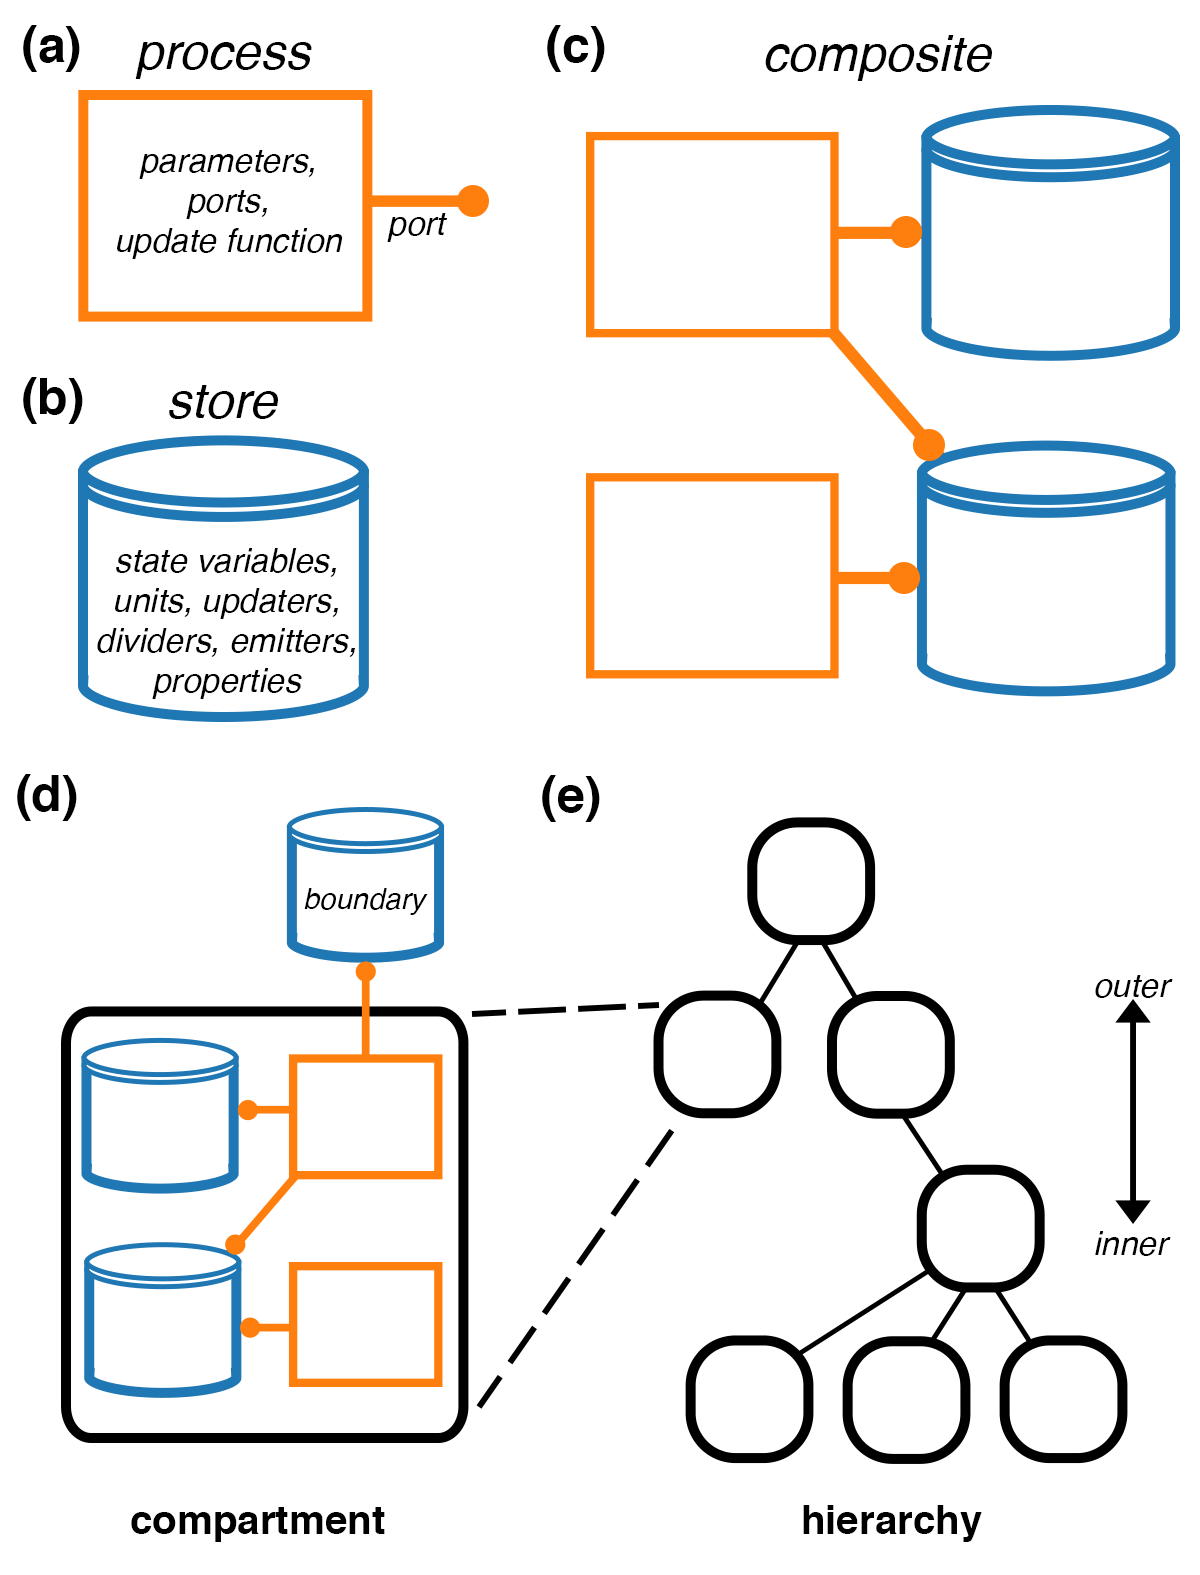
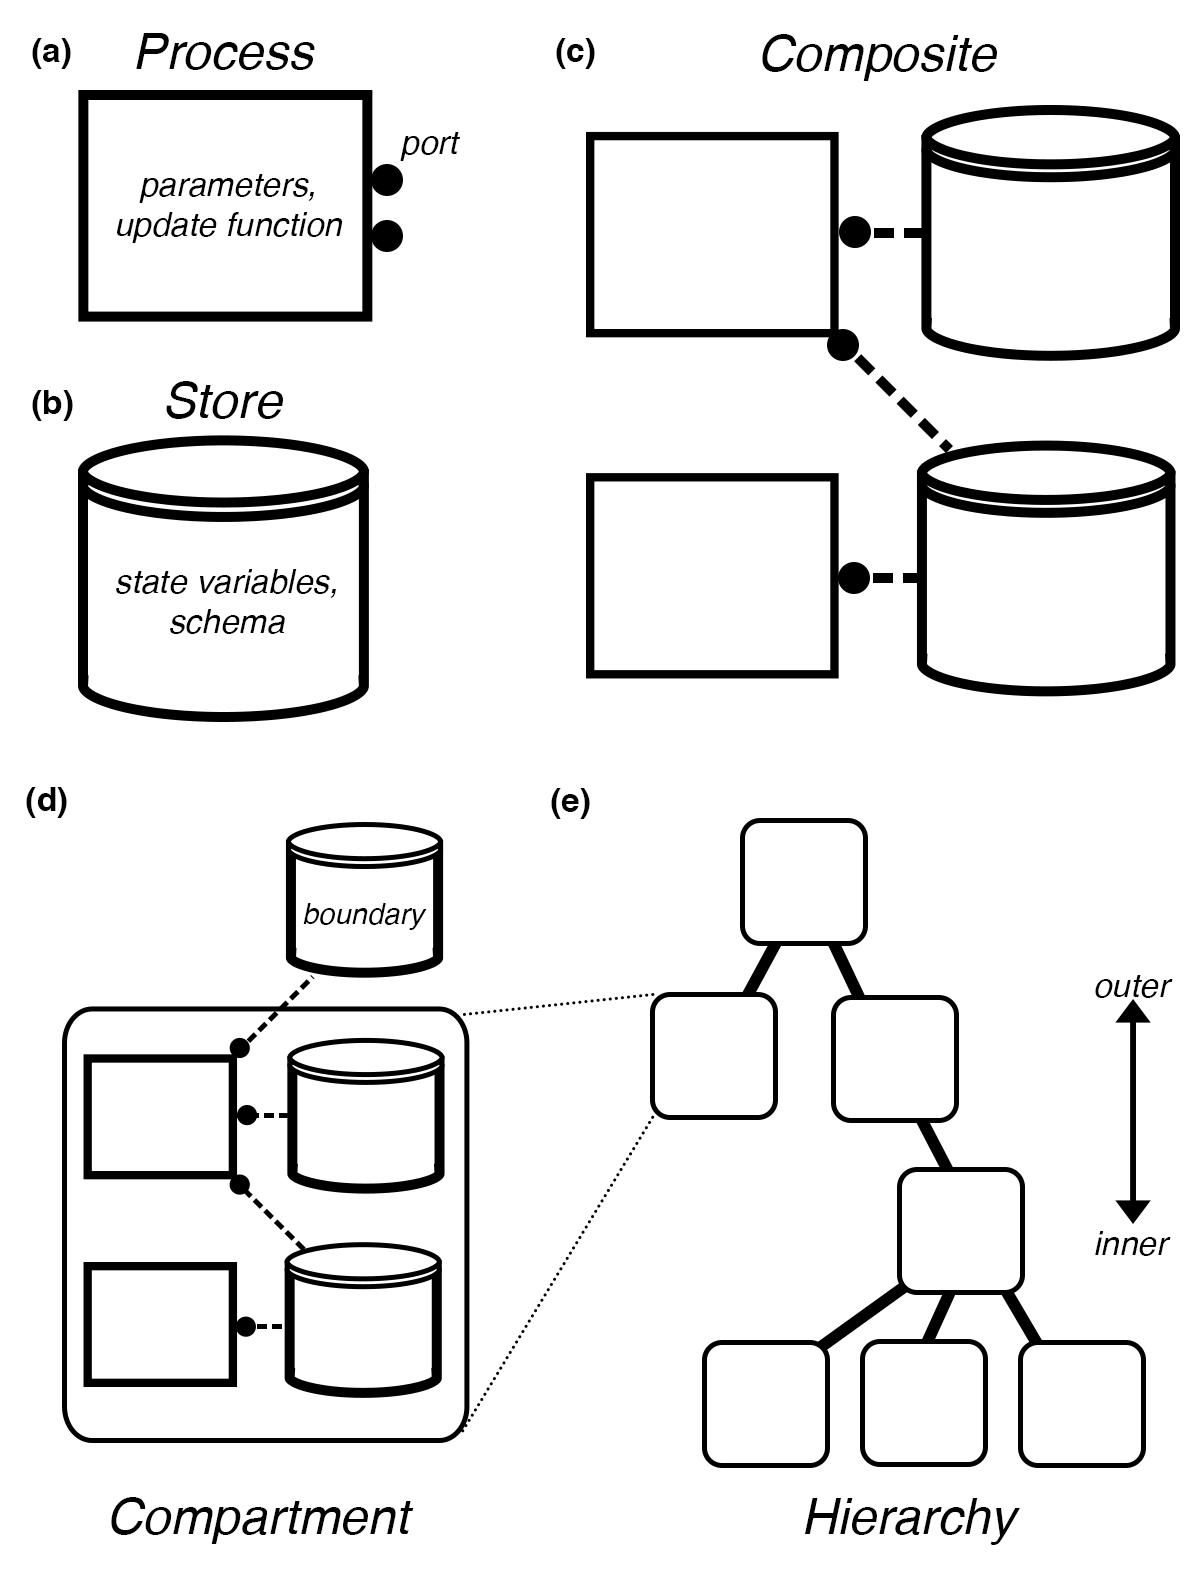
update docs main page

diff --git a/doc/index.rst b/doc/index.rst
@@ -2,15 +2,12 @@
 Welcome to the documentation for Vivarium Core!
 ===============================================
 
-Vivarium is a multiscale platform for simulating cells in dynamic
-environments, within which they can grow, divide, and thrive.
+The Vivarium Core library provides the Vivarium interface and engine
+for composing and simulating integrative, multiscale models.
 
-.. image:: ./_static/vivarium_lacy.png
+.. image:: ./_static/hierarchy.png
     :width: 60%
     :align: center
-    :alt: A sequence of six frames showing simulated *E. coli* colony
-        growth. The colony grows from a single cell in the leftmost
-        frame to around 100 in the rightmost.
 
 .. toctree::
    :maxdepth: 2
@@ -33,24 +30,17 @@ Introduction
 A vivarium, literally a "place of life," is a controlled environment in
 which organisms can be studied. You might have encountered examples of
 vivaria like an aquarium or a terrarium. The Vivarium project provides a
-framework for creating a computational vivarium which can simulate
-colonies of cells in shared, dynamic environments.
+framework for building biological systems in-silico.
 
-The platform's framework is a novel synthesis of several modeling
-methodologies:
+Vivarium does not include any specific modeling frameworks, but instead
+focuses on the interface between such frameworks, and provides a powerful
+multiscale simulation engine that combines and runs them. Users of Vivarium
+can therefore implement any type of model module they prefer -- whether it
+is a custom module of a specific biophysical system, a configurable model
+with its own standard format, or a wrapper for an off-the-shelf library. The
+multiscale engine supports complex agents operating at multiple timescales,
+and facilitates parallelization across multiple CPUs.
 
-1. Whole-cell modeling, to simulate hybrid models of cells with complex
-   internal organization.
-2. Agent-based modeling, to simulate the interactions of many cells in a
-   shared environment.
-3. Multiscale simulation, to solve problems with multiple scales of time
-   and space.
-4. Wirable model modules, to streamline model development by decomposing
-   computational representations into modules that can be reconfigured
-   and recombined.
-
-This project, Vivarium Core, is the core engine that can simulate models
-built using the Vivarium interface.
 
 .. todo:: Use cases
 
